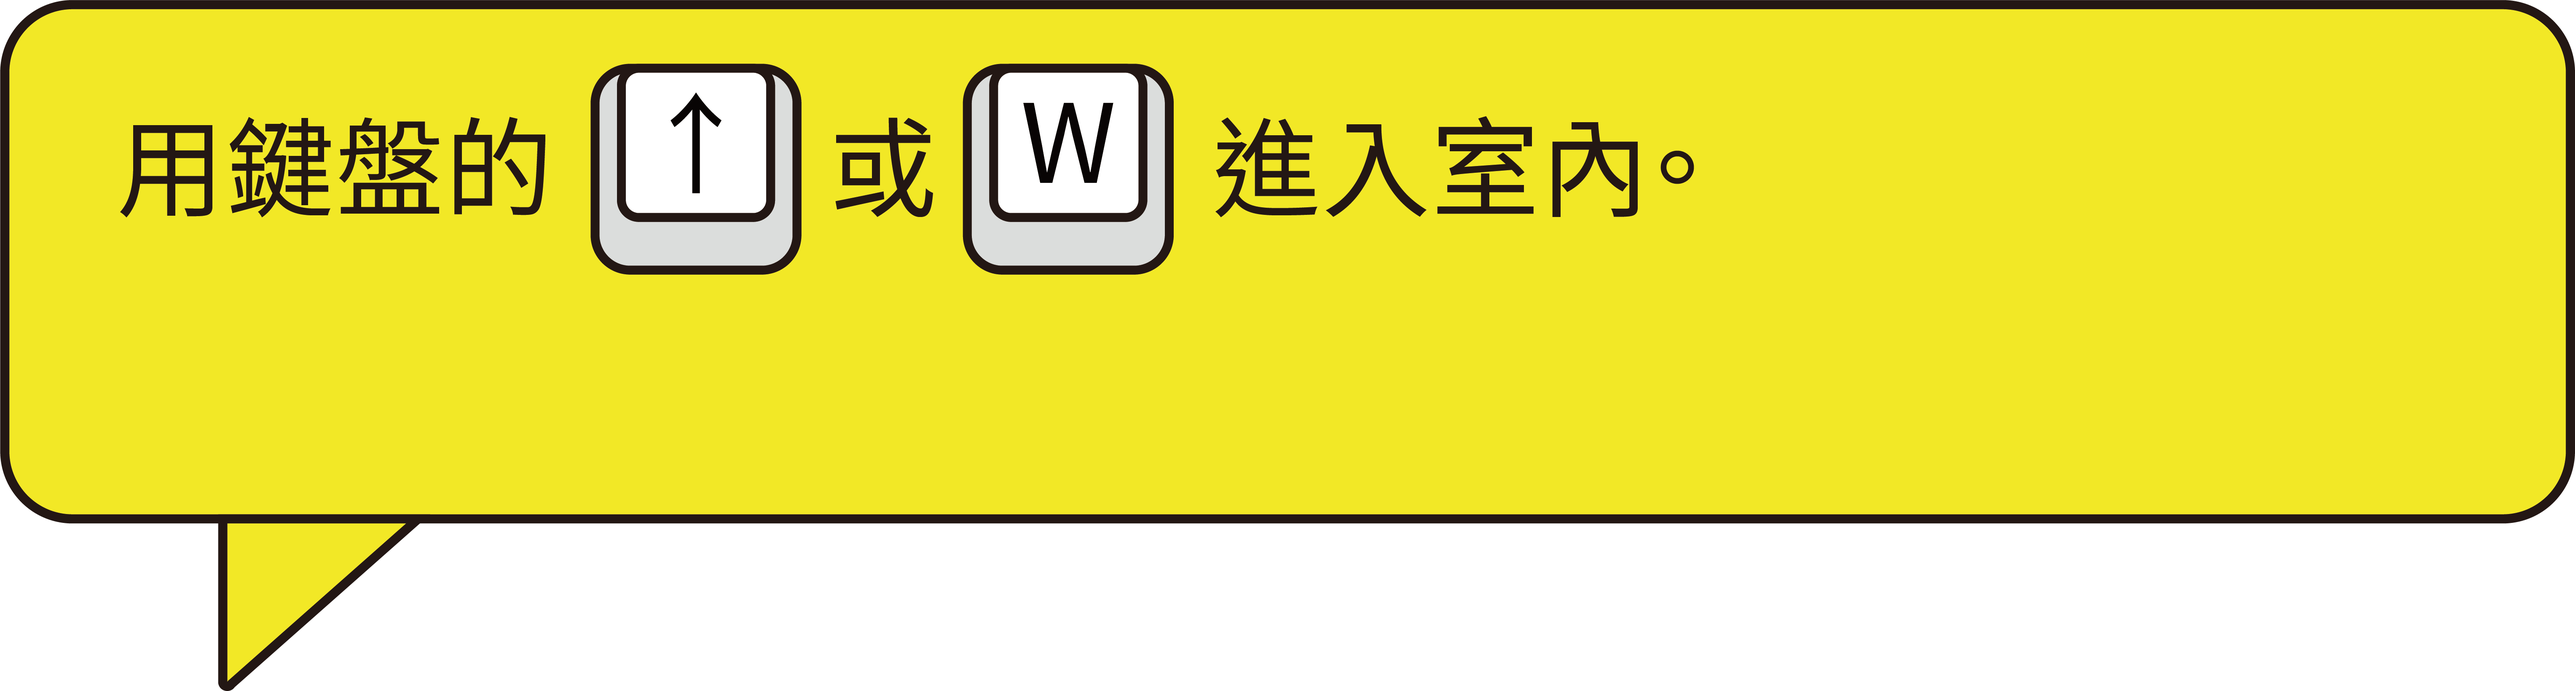
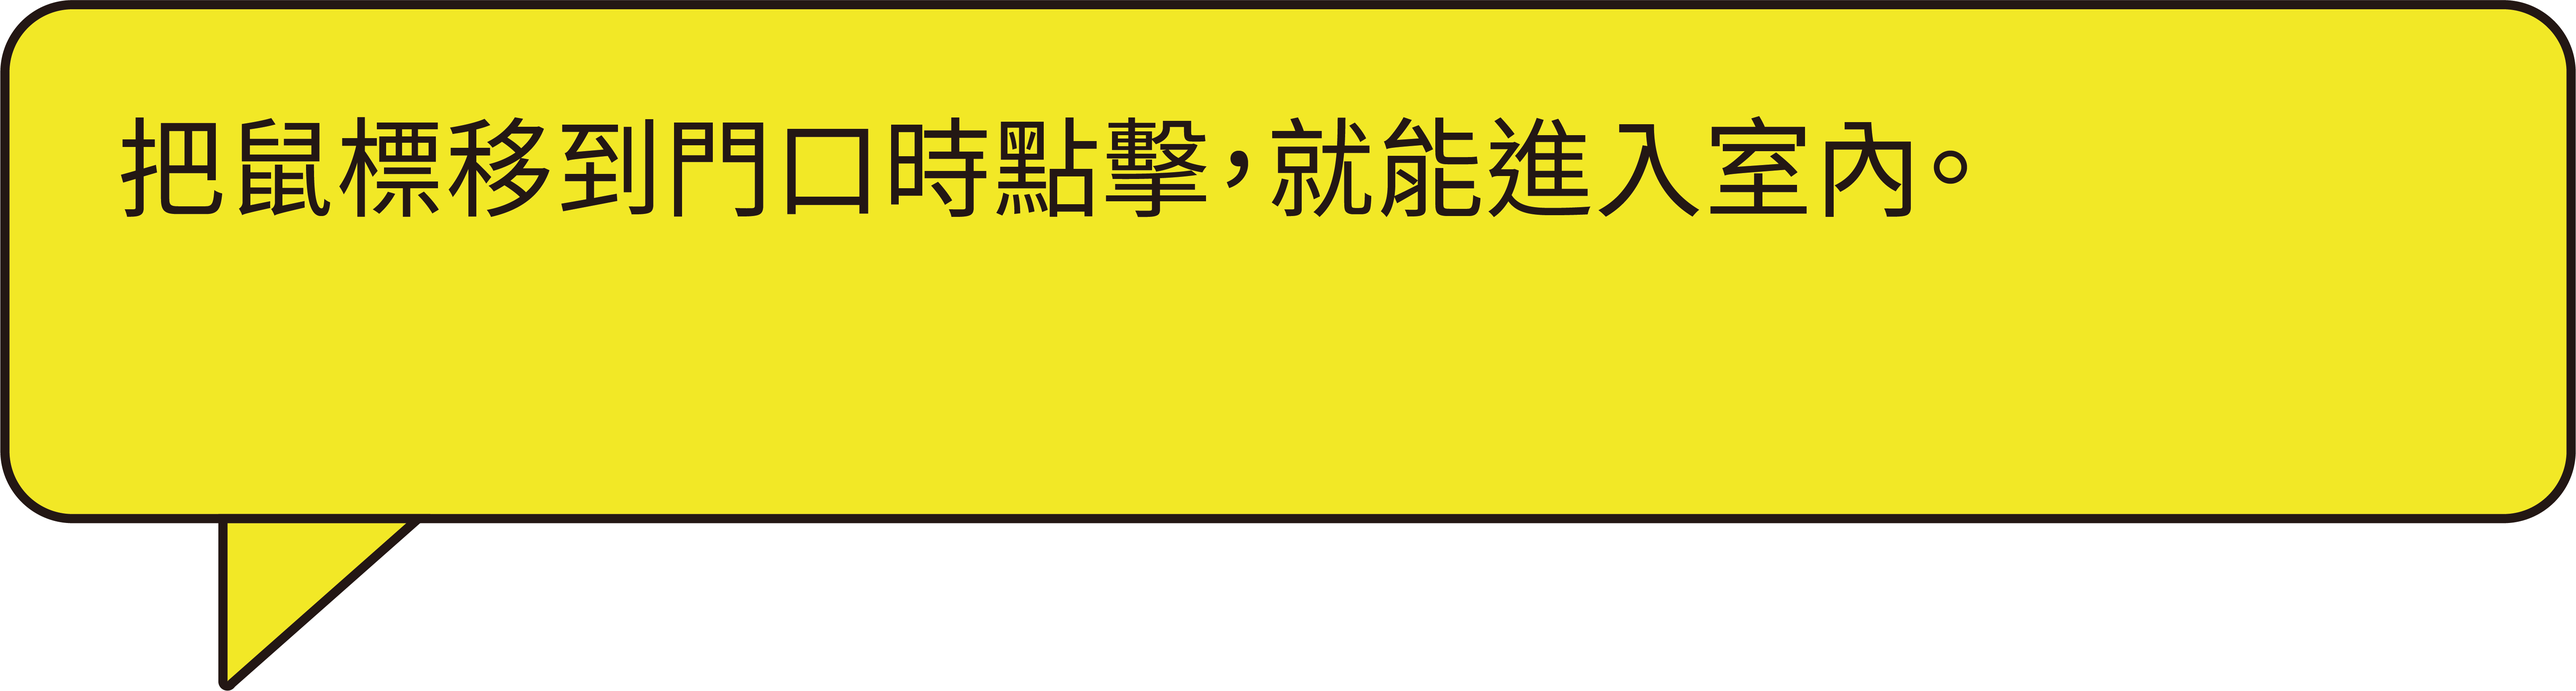
0519

Changed region(s): [[0.0311, 0.0933, 0.7774, 0.4043]]

diff --git a/index.js b/index.js
@@ -62,15 +62,24 @@ const phone = new Interaction({x:1320, y:50, w:308/4.5, h:492/4.5, name:'phone',
 const interactions = [
     new Interaction({x:2973, y:481, w:147, h:218, name:'cool', isShow:false}),
     new Interaction({x:3750, y:450, w:60, h:60, name:'occupy', image: createImage('./images/buttons/in2f.png'), multiple:1.05, isShow:false, }),
-    new Interaction({x:4170, y:500, w:455, h:225, name:'hoard', isShow:false}),
-    new Interaction({x:4170, y:200, w:455, h:225, name:'network', isShow:false}),
-    new Interaction({x:4895, y:200, w:455, h:225, name:'noisy', isShow:false}),
-    new Interaction({x:4895, y:500, w:455, h:225, name:'delay', isShow:false}),
+    new Interaction({x:4370, y:530, w:200, h:200, name:'hoard', isShow:false}),
+    new Interaction({x:4825, y:520, w:60, h:60, name:'network',image: createImage('./images/buttons/in2f.png'), multiple:1.05, isShow:false}),
+    new Interaction({x:4825, y:590, w:60, h:60, name:'noisy',image: createImage('./images/buttons/in2f.png'),  isShow:false}),
+    new Interaction({x:4955, y:530, w:175, h:195, name:'delay', isShow:false}),
     new Interaction({x:6430, y:490, w:310, h:225, name:'road', isShow:false}),
-
 ]
 const talks = [
-    new Talk({x:3780 -3318/15, y:350, w:3318/15, h:1604/15, name:'occupy', image: createImage('./images/talks/enter2f_.png'),isShow:false, direction:1650}),
+    new Talk({x:3780 -3318/15, y:350, w:3318/15, h:1640/15, name:'occupy', image: createImage('./images/talks/enter2f_.png'),isShow:false, direction:1650}),
+    new Talk({x:2973 + 60, y:400, w:3318/15, h:1640/15, name:'cool', image: createImage('./images/talks/entercool_.png'),isShow:false, direction:400000}),
+    new Talk({x:4370 - 3318/15 + 100, y:530, w:3318/15, h:1640/15, name:'hoard', image: createImage('./images/talks/enterhoard_.png'),isShow:false, direction:400000}),
+    new Talk({x:4825 - 3693/15 + 30, y:430, w:3693/15, h:1640/15, name:'network', image: createImage('./images/talks/enternetwork_.png'),isShow:false, direction:400000}),
+    new Talk({x:4825 + 30, y:490, w:3693/15, h:1640/15, name:'noisy', image: createImage('./images/talks/enternoisy_.png'),isShow:false, direction:400000}),
+    new Talk({x:4955 + 100, y:530, w:3317/15, h:1640/15, name:'delay', image: createImage('./images/talks/enterdelay_.png'),isShow:false, direction:400000}),
+    new Talk({x:6430 + 100, y:380, w:3317/15, h:1640/15, name:'road', image: createImage('./images/talks/enterroad_.png'),isShow:false, direction:400000}),
+]
+const outSideItems = [
+    new Interaction({x:6380 , y:460, w:279/3, h:871/3, name:'roadpeople',image: createImage('./images/roads/people1.png'), isEnlarge:false, isShow:true}),
+
 ]
 const dynamics = [
     
@@ -142,7 +151,7 @@ const cools = {
     
     talk004: new Shared({x:mesterTalkX - 30, y:mesterTalkY-630/4.5 , w:2378/4.8, h:639/4.8, image: createImage('./images/cool/talk/004.png'), isTalk:true, isEnlarge:false, multiple:1.02, name:'004', isShow:false,}),
 
-    end: new Shared({x:canvas.width/2 - (398/1)/2 , y:canvas.height/2 - (232/1)/2  , w:398/1, h:232/1, image: createImage('./images/goodend.png'), isEnlarge:false, multiple:1, name:'end', isShow:false,}),
+    end: new Shared({x:canvas.width/2 - (2079/5)/2 , y:canvas.height/2 - (2123/5)/2  , w:2079/5, h:2123/5, image: createImage('./images/cool/goodend.png'), isEnlarge:false, multiple:1, name:'end', isShow:false,}),
 
     talk005: new Shared({x:canvas.width/2 - (3149/4.5)/2, y:canvas.height/2 - (484/4.5) - 100, w:2378/4.8, h:639/4.8, image: createImage('./images/cool/talk/005.png'), isTalk:true, isEnlarge:false, multiple:1.02, name:'005', isShow:false,}),
     talk006: new Shared({x:canvas.width/2 - (3149/4.5)/2 , y:canvas.height/2 - (484/4.5) - 100, w:2378/4.8, h:639/4.8, image: createImage('./images/cool/talk/006.png'), isTalk:true, isEnlarge:false, multiple:1.02, name:'006', isShow:false,}),
@@ -182,7 +191,7 @@ const occupys = {
     chk: new Shared({x:canvas.width/2 - (112/2)/2 + 300, y:canvas.height/2 - (68/2)/2 + 20, w:112/2, h:68/2, image: createImage('./images/buttons/chk.png'), isEnlarge:false, multiple:1, name:'chk', isShow:false ,}),
 
 
-    end: new Shared({x:canvas.width/2 - (398/1)/2 , y:canvas.height/2 - (232/1)/2  , w:398/1, h:232/1, image: createImage('./images/goodend.png'), isEnlarge:false, multiple:1, name:'end', isShow:false,}),
+    end: new Shared({x:canvas.width/2 - (2079/5)/2 , y:canvas.height/2 - (2123/5)/2  , w:398/1, h:232/1, image: createImage('./images/occupys/goodend.png'), isEnlarge:false, multiple:1, name:'end', isShow:false,}),
 
 }
 
@@ -253,7 +262,7 @@ const hoards = {
     chk: new Shared({x:canvas.width/2 - (112/2)/2 + 300, y:canvas.height/2 - (68/2)/2 + 20, w:112/2, h:68/2, image: createImage('./images/buttons/chk.png'), isEnlarge:false, multiple:1, name:'chk', isShow:false ,}),
     chk2: new Shared({x:canvas.width/2 - (112/2)/2 + 110, y:canvas.height/2 - (68/2)/2 + 20, w:112/2, h:68/2, image: createImage('./images/buttons/chk.png'), isEnlarge:false, multiple:1, name:'chk2', isShow:false ,}),
 
-    end: new Shared({x:canvas.width/2 - (398/1)/2 , y:canvas.height/2 - (232/1)/2  , w:398/1, h:232/1, image: createImage('./images/goodend.png'), isEnlarge:false, multiple:1, name:'end', isShow:false,}),
+    end: new Shared({x:canvas.width/2 - (2079/5)/2 , y:canvas.height/2 - (2123/5)/2  , w:398/1, h:232/1, image: createImage('./images/hoards/goodend.png'), isEnlarge:false, multiple:1, name:'end', isShow:false,}),
 }
 const networks = {
     computer: new Shared({x:940, y:108, w:751/4.2, h:418/4.2, image: createImage('./images/network/computer.png'), name:'computer', isShow:true, isEnlarge:false, multiple:1}),
@@ -299,7 +308,7 @@ const networks = {
 
     chk: new Shared({x:canvas.width/2 - (112/2)/2 + 300, y:canvas.height/2 - (68/2)/2 + 20, w:112/2, h:68/2, image: createImage('./images/buttons/chk.png'), isEnlarge:false, multiple:1, name:'chk', isShow:false ,}),
 
-    end: new Shared({x:canvas.width/2 - (398/1)/2 , y:canvas.height/2 - (232/1)/2  , w:398/1, h:232/1, image: createImage('./images/goodend.png'), isEnlarge:false, multiple:1, name:'end', isShow:false,}),
+    end: new Shared({x:canvas.width/2 - (2079/5)/2 , y:canvas.height/2 - (2123/5)/2  , w:398/1, h:232/1, image: createImage('./images/network/goodend.png'), isEnlarge:false, multiple:1, name:'end', isShow:false,}),
 
 }
 const noisys = {
@@ -361,7 +370,7 @@ const noisys = {
     // new Shared({x:playerTalkX-(2378/4.5)-25, y:playerTalkXY-630/4.5, w:2378/4.5, h:630/4.5, image: createImage('./images/network/talk/2.png'), isTalk:true, isEnlarge:false, multiple:1.02, name:'2', isShow:false,}),
     A: new Shared({x:canvas.width/2 - (1485/4)/2 , y:canvas.height/2 - (484/4)/2  , w:1485/4, h:484/4, image: createImage('./images/noisy/talk/A.png'), isEnlarge:false, multiple:1, name:'A', isShow:false,}),
     B: new Shared({x:canvas.width/2 - (1485/4)/2 , y:canvas.height/2 - (484/4)/2  , w:1485/4, h:484/4, image: createImage('./images/noisy/talk/B.png'), isEnlarge:false, multiple:1, name:'B', isShow:false,}),
-    end: new Shared({x:canvas.width/2 - (398/1)/2 , y:canvas.height/2 - (232/1)/2  , w:398/1, h:232/1, image: createImage('./images/goodend.png'), isEnlarge:false, multiple:1, name:'end', isShow:false,}),
+    end: new Shared({x:canvas.width/2 - (2079/5)/2 , y:canvas.height/2 - (2123/5)/2  , w:398/1, h:232/1, image: createImage('./images/noisy/goodend.png'), isEnlarge:false, multiple:1, name:'end', isShow:false,}),
 }
 const delays = {
     count: new Shared({x:150, y:670, w:300/3.5, h:137/3.5, image: createImage('./images/delays/talk/0-4.png'), name:'count', multiple:1, isEnlarge:false, isShow:false}),
@@ -412,7 +421,7 @@ const delays = {
 
     chk: new Shared({x:canvas.width/2 - (112/2)/2 + 300, y:canvas.height/2 - (68/2)/2 + 20, w:112/2, h:68/2, image: createImage('./images/buttons/chk.png'), isEnlarge:false, multiple:1, name:'chk', isShow:false ,}),
 
-    end: new Shared({x:canvas.width/2 - (398/1)/2 , y:canvas.height/2 - (232/1)/2  , w:398/1, h:232/1, image: createImage('./images/goodend.png'), isEnlarge:false, multiple:1, name:'end', isShow:false,}),
+    end: new Shared({x:canvas.width/2 - (2079/5)/2 , y:canvas.height/2 - (2123/5)/2  , w:398/1, h:232/1, image: createImage('./images/delays/goodend.png'), isEnlarge:false, multiple:1, name:'end', isShow:false,}),
 }
 const roads = {
     a1: new Shared({x:716, y:190, w:28, h:74, image: createImage('./images/roads/a1.png'),name:'a1', isEnlarge:true, multiple:1.05, isShow:true}),
@@ -436,11 +445,49 @@ const roads = {
     b1talkChk: new Shared({x:675 + 110  - 80 -112/1.6- 100 , y:340 -518/4.5 + 22 , w:112/1.6, h:68/1.6, image: createImage('./images/buttons/chk.png'), name:'b1talkChk', multiple:1.02, isEnlarge:true, isShow:false}),
     b1talkCancel: new Shared({x:675 + 110  - 80 - 100 + 10, y:340 -518/4.5 + 22, w:112/1.6, h:68/1.6, image: createImage('./images/buttons/cancel.png'), name:'b1talkCancel', multiple:1.02, isEnlarge:true, isShow:false}),
 
+    b2talk: new Shared({x:675  + 80, y:340 -518/4.5, w:1683/4.5, h:518/4.5, image: createImage('./images/roads/talk/b2talk.png'),name:'b2talk', isEnlarge:false, multiple:1.05, isShow:false}),
+    b2talkChk: new Shared({x:675  + 80  +(1683/4.5) -112/1.6- 100 , y:340 -518/4.5 + 22 , w:112/1.6, h:68/1.6, image: createImage('./images/buttons/chk.png'), name:'b2talkChk', multiple:1.02, isEnlarge:true, isShow:false}),
+    b2talkCancel: new Shared({x:675  + 80  +(1683/4.5)- 100 + 10, y:340 -518/4.5 + 22, w:112/1.6, h:68/1.6, image: createImage('./images/buttons/cancel.png'), name:'b2talkCancel', multiple:1.02, isEnlarge:true, isShow:false}),
+
+    c1talk: new Shared({x:675 + 110 - (1683/4.5) - 80, y:660 -518/4.5, w:1683/4.5, h:518/4.5, image: createImage('./images/roads/talk/c1talk.png'),name:'c1talk', isEnlarge:false, multiple:1.05, isShow:false}),
+    c1talkChk: new Shared({x:675 + 110  - 80 -112/1.6- 100 , y:660 -518/4.5 + 22 , w:112/1.6, h:68/1.6, image: createImage('./images/buttons/chk.png'), name:'c1talkChk', multiple:1.02, isEnlarge:true, isShow:false}),
+    c1talkCancel: new Shared({x:675 + 110  - 80 - 100 + 10, y:660 -518/4.5 + 22, w:112/1.6, h:68/1.6, image: createImage('./images/buttons/cancel.png'), name:'c1talkCancel', multiple:1.02, isEnlarge:true, isShow:false}),
+
+    d1talk: new Shared({x:890 + 28 - (1978/4.5) + 30, y:308 +20, w:1978/4.5, h:518/4.5, image: createImage('./images/roads/talk/d1talk.png'),name:'d1talk', isEnlarge:false, multiple:1.05, isShow:false}),
+    d1talkChk: new Shared({x:890 + 28 - 112/1.6 - 100 + 30  , y:308+20  + 518/4.5 - 68/1.6 -15 , w:112/1.6, h:68/1.6, image: createImage('./images/buttons/chk.png'), name:'d1talkChk', multiple:1.02, isEnlarge:true, isShow:false}),
+    d1talkCancel: new Shared({x:890 + 28 - 100 +10 +30, y:308 +20 + 518/4.5 - 68/1.6 -15, w:112/1.6, h:68/1.6, image: createImage('./images/buttons/cancel.png'), name:'d1talkCancel', multiple:1.02, isEnlarge:true, isShow:false}),
     
+    e1talk: new Shared({x:615  , y:421 -518/4.5, w:2068/4.5, h:518/4.5, image: createImage('./images/roads/talk/e1talk.png'),name:'e1talk', isEnlarge:false, multiple:1.05, isShow:false}),
+    e1talkChk: new Shared({x:615  +(2068/4.5) -112/1.6- 100 , y:421 -518/4.5 + 22 , w:112/1.6, h:68/1.6, image: createImage('./images/buttons/chk.png'), name:'e1talkChk', multiple:1.02, isEnlarge:true, isShow:false}),
+    e1talkCancel: new Shared({x:615 +(2068/4.5)- 100 + 10, y:421 -518/4.5 + 22, w:112/1.6, h:68/1.6, image: createImage('./images/buttons/cancel.png'), name:'e1talkCancel', multiple:1.02, isEnlarge:true, isShow:false}),
+
+    f1talk: new Shared({x:728  , y:655 -518/4.5, w:2068/4.5, h:518/4.5, image: createImage('./images/roads/talk/f1talk.png'),name:'f1talk', isEnlarge:false, multiple:1.05, isShow:false}),
+    f1talkChk: new Shared({x:728  +(2068/4.5) -112/1.6- 100 , y:655 -518/4.5 + 22 , w:112/1.6, h:68/1.6, image: createImage('./images/buttons/chk.png'), name:'f1talkChk', multiple:1.02, isEnlarge:true, isShow:false}),
+    f1talkCancel: new Shared({x:728 +(2068/4.5)- 100 + 10, y:655 -518/4.5 + 22, w:112/1.6, h:68/1.6, image: createImage('./images/buttons/cancel.png'), name:'f1talkCancel', multiple:1.02, isEnlarge:true, isShow:false}),
     
-    b2talk: new Shared({x:675  + 80, y:340 -518/4.5, w:1683/4.5, h:518/4.5, image: createImage('./images/roads/talk/b2talk.png'),name:'b2talk', isEnlarge:false, multiple:1.05, isShow:true}),
-    b2talkChk: new Shared({x:675  + 80  +(1683/4.5) -112/1.6- 100 , y:340 -518/4.5 + 22 , w:112/1.6, h:68/1.6, image: createImage('./images/buttons/chk.png'), name:'b2talkChk', multiple:1.02, isEnlarge:true, isShow:true}),
-    b2talkCancel: new Shared({x:675  + 80  +(1683/4.5)- 100 + 10, y:340 -518/4.5 + 22, w:112/1.6, h:68/1.6, image: createImage('./images/buttons/cancel.png'), name:'b2talkCancel', multiple:1.02, isEnlarge:true, isShow:true}),
+    g1talk: new Shared({x:1010 + 28 - (1978/4.5) + 30, y:288 +50, w:1978/4.5, h:518/4.5, image: createImage('./images/roads/talk/g1talk.png'),name:'g1talk', isEnlarge:false, multiple:1.05, isShow:false}),
+    g1talkChk: new Shared({x:1010 + 28 - 112/1.6 - 100 + 30  , y:288+50  + 518/4.5 - 68/1.6 -15 , w:112/1.6, h:68/1.6, image: createImage('./images/buttons/chk.png'), name:'g1talkChk', multiple:1.02, isEnlarge:true, isShow:false}),
+    g1talkCancel: new Shared({x:1010 + 28 - 100 +10 +30, y:288 +50 + 518/4.5 - 68/1.6 -15, w:112/1.6, h:68/1.6, image: createImage('./images/buttons/cancel.png'), name:'g1talkCancel', multiple:1.02, isEnlarge:true, isShow:false}),
+
+    h1talk: new Shared({x:1216 + 28 - (1449/4.5) + 30, y:392 +50, w:1449/4.5, h:518/4.5, image: createImage('./images/roads/talk/h1talk.png'),name:'h1talk', isEnlarge:false, multiple:1.05, isShow:false}),
+    h1talkChk: new Shared({x:1216 + 28 - 112/1.6 - 100 + 30  , y:392+50  + 518/4.5 - 68/1.6 -15 , w:112/1.6, h:68/1.6, image: createImage('./images/buttons/chk.png'), name:'h1talkChk', multiple:1.02, isEnlarge:true, isShow:false}),
+    h1talkCancel: new Shared({x:1216 + 28 - 100 +10 +30, y:392 +50 + 518/4.5 - 68/1.6 -15, w:112/1.6, h:68/1.6, image: createImage('./images/buttons/cancel.png'), name:'h1talkCancel', multiple:1.02, isEnlarge:true, isShow:false}),
+
+    i1talk: new Shared({x:736  , y:567 -518/4.5, w:2068/4.5, h:518/4.5, image: createImage('./images/roads/talk/i1talk.png'),name:'i1talk', isEnlarge:false, multiple:1.05, isShow:false}),
+    i1talkChk: new Shared({x:736  +(2068/4.5) -112/1.6- 100 , y:567 -518/4.5 + 22 , w:112/1.6, h:68/1.6, image: createImage('./images/buttons/chk.png'), name:'i1talkChk', multiple:1.02, isEnlarge:true, isShow:false}),
+    i1talkCancel: new Shared({x:736 +(2068/4.5)- 100 + 10, y:567 -518/4.5 + 22, w:112/1.6, h:68/1.6, image: createImage('./images/buttons/cancel.png'), name:'i1talkCancel', multiple:1.02, isEnlarge:true, isShow:false}),
+    
+    j1talk: new Shared({x:865 + 28 - (2044/4.5) +30, y:427 +20, w:2044/4.5, h:518/4.5, image: createImage('./images/roads/talk/j1talk.png'),name:'j1talk', isEnlarge:false, multiple:1.05, isShow:false}),
+    j1talkChk: new Shared({x:865 + 28 - 112/1.6 - 100 +30  , y:427+20  + 518/4.5 - 68/1.6 -15 , w:112/1.6, h:68/1.6, image: createImage('./images/buttons/chk.png'), name:'j1talkChk', multiple:1.02, isEnlarge:true, isShow:false}),
+    j1talkCancel: new Shared({x:865 + 28 - 100 +10+30, y:427 +20 + 518/4.5 - 68/1.6 -15, w:112/1.6, h:68/1.6, image: createImage('./images/buttons/cancel.png'), name:'j1talkCancel', multiple:1.02, isEnlarge:true, isShow:false}),
+
+    k1talk: new Shared({x:1240 + 28 - (1978/4.5) + 10, y:480 +50, w:1978/4.5, h:518/4.5, image: createImage('./images/roads/talk/k1talk.png'),name:'k1talk', isEnlarge:false, multiple:1.05, isShow:false}),
+    k1talkChk: new Shared({x:1240 + 28 - 112/1.6 - 100 + 10  , y:480+50  + 518/4.5 - 68/1.6 -15 , w:112/1.6, h:68/1.6, image: createImage('./images/buttons/chk.png'), name:'k1talkChk', multiple:1.02, isEnlarge:true, isShow:false}),
+    k1talkCancel: new Shared({x:1240 + 28 - 100 +10 + 10, y:480 +50 + 518/4.5 - 68/1.6 -15, w:112/1.6, h:68/1.6, image: createImage('./images/buttons/cancel.png'), name:'k1talkCancel', multiple:1.02, isEnlarge:true, isShow:false}),
+
+    l1talk: new Shared({x:832 + 110 - (1683/4.5) - 80 + 30, y:580 -518/4.5 + 30, w:1683/4.5, h:518/4.5, image: createImage('./images/roads/talk/l1talk.png'),name:'l1talk', isEnlarge:false, multiple:1.05, isShow:false}),
+    l1talkChk: new Shared({x:832 + 110  - 80 -112/1.6- 100 + 30 , y:580 -518/4.5 + 22 + 30 , w:112/1.6, h:68/1.6, image: createImage('./images/buttons/chk.png'), name:'l1talkChk', multiple:1.02, isEnlarge:true, isShow:false}),
+    l1talkCancel: new Shared({x:832 + 110  - 80 - 100 + 10 + 30, y:580 -518/4.5 + 22 + 30, w:112/1.6, h:68/1.6, image: createImage('./images/buttons/cancel.png'), name:'l1talkCancel', multiple:1.02, isEnlarge:true, isShow:false}),
 
     people: new Shared({x:0, y:250, w:279/1.1, h:871/1.1, image: createImage('./images/roads/people1.png'), isPeople:true, name:'people', isShow:true}),
 
@@ -519,6 +566,9 @@ function startFn(){
         interactions.forEach(item=>{
             item.position.x -= busSpeed
         })
+        outSideItems.forEach(item=>{
+            item.position.x -= busSpeed
+        })
         talks.forEach(talk=>{
             talk.position.x -= busSpeed
         })
@@ -547,7 +597,7 @@ function startFn(){
                 bus.divisor = 15
             }
         }
-    }, 20)
+    }, 0)
 }
 
 let busPos = 1.5
@@ -572,6 +622,9 @@ function animate(){
             interactions.forEach(item=>{
                 item.position.x -= player.speed *0.66
             })
+            outSideItems.forEach(item=>{
+                item.position.x -= player.speed *0.66
+            })
             talks.forEach(talk=>{
                 talk.position.x -= player.speed *0.66
             })
@@ -588,6 +641,9 @@ function animate(){
                 backgruond.position.x += player.speed *0.66
                 bus.position.x += player.speed *0.66
                 interactions.forEach(item=>{
+                    item.position.x += player.speed *0.66
+                })
+                outSideItems.forEach(item=>{
                     item.position.x += player.speed *0.66
                 })
                 talks.forEach(talk=>{
@@ -607,6 +663,10 @@ function animate(){
     interactions.forEach(interaction=>{
         if(interaction.show===false) return
         interaction.draw()
+    })
+    outSideItems.forEach(item=>{
+        if(item.show===false) return
+        item.draw()
     })
     talks.forEach(talk=>{
         if(talk.show) talk.draw()

diff --git a/js/loadimg.js b/js/loadimg.js
@@ -68,6 +68,8 @@ const imgarr = [
     , './images/cool/talk/11B.png'
     , './images/cool/talk/1001.png'
     , './images/cool/talk/res.png'
+    , './images/cool/goodend.png'
+    , './images/cool/badend.png'
     , './images/delays/a1.png'
     , './images/delays/a2.png'
     , './images/delays/b1.png'
@@ -122,6 +124,8 @@ const imgarr = [
     , './images/delays/talk/16B_.png'
     , './images/delays/talk/17A.png'
     , './images/delays/talk/17B.png'
+    , './images/delays/goodend.png'
+    , './images/delays/badend.png'
     , './images/hoards/a1.png'
     , './images/hoards/b1.png'
     , './images/hoards/c1.png'
@@ -175,6 +179,8 @@ const imgarr = [
     , './images/hoards/talk/16C_.png'
     , './images/hoards/talk/finish.png'
     , './images/hoards/talk/res.png'
+    , './images/hoards/goodend.png'
+    , './images/hoards/badend.png'
     , './images/network/computer.png'
     , './images/network/goback.png'
     , './images/network/goback_.png'
@@ -232,6 +238,8 @@ const imgarr = [
     , './images/network/talk/14.png'
     , './images/network/talk/15.png'
     , './images/network/talk/res.png'
+    , './images/network/goodend.png'
+    , './images/network/badend.png'
     , './images/noisy/people1.png'
     , './images/noisy/smallPeople.png'
     , './images/noisy/wall1.png'
@@ -262,6 +270,8 @@ const imgarr = [
     , './images/noisy/talk/B.png'
     , './images/noisy/talk/wall1.png'
     , './images/noisy/talk/wall2.png'
+    , './images/noisy/goodend.png'
+    , './images/noisy/badend.png'
     , './images/occupys/a1.png'
     , './images/occupys/b1.png'
     , './images/occupys/c1.png'
@@ -311,6 +321,8 @@ const imgarr = [
     , './images/occupys/talk/10C.png'
     , './images/occupys/talk/10C_.png'
     , './images/occupys/talk/res.png'
+    , './images/occupys/goodend.png'
+    , './images/occupys/badend.png'
     , './images/starts/talk/001.png'
     , './images/starts/talk/01.png'
     , './images/starts/talk/1.png'
@@ -339,6 +351,18 @@ const imgarr = [
     , './images/starts/talk/010.png'
     , './images/talks/enter2f.png'
     , './images/talks/enter2f_.png'
+    , './images/talks/entercool_.png'
+    , './images/talks/entercool.png'
+    , './images/talks/enterdelay.png'
+    , './images/talks/enterdelay_.png'
+    , './images/talks/enterhoard.png'
+    , './images/talks/enterhoard_.png'
+    , './images/talks/enternetwork.png'
+    , './images/talks/enternetwork_.png'
+    , './images/talks/enternoisy.png'
+    , './images/talks/enternoisy_.png'
+    , './images/talks/enterroad.png'
+    , './images/talks/enterroad_.png'
 ]
 let imgDownloadNum = 0
 let isLoaded = false

diff --git a/js/eventListener.js b/js/eventListener.js
@@ -16,6 +16,7 @@ window.addEventListener("keydown", ({keyCode})=>{
             break;
         case 68:
             if(!isRoomOpen){
+                console.log(scrollOffset);
                 keys.right.pressed = true
                 lastKey = 'right'
                 audioRunning.loop = true
@@ -24,6 +25,7 @@ window.addEventListener("keydown", ({keyCode})=>{
             break;
         case 65:
             if(!isRoomOpen){
+                console.log(scrollOffset);
                 keys.left.pressed = true
                 lastKey = 'left'
                 audioRunning.loop = true
@@ -100,7 +102,7 @@ canvas.addEventListener('mousemove', (e)=>{
         if(!isRoomOpen && x > interaction.position.x && x < (interaction.position.x + interaction.width) && y > interaction.position.y && y < (interaction.position.y + interaction.height)){
             let talk = talks.filter(talk=> talk.name === interaction.name)[0]
             if(interaction.show===false) return
-            if(interaction.enlarge===false) return
+            if(interaction.enlarg===false) return 
             if(talk) {
                 if(talk.direction!==0){
                     if(scrollOffset <= talk.direction){

diff --git a/js/Sprite.js b/js/Sprite.js
@@ -41,7 +41,7 @@ class Interaction {
     }
     draw(){
         if(this.image === null){
-            c.fillStyle = 'rgba(255,255,255,0)'
+            c.fillStyle = 'rgba(255,255,0,.5)'
             c.fillRect(this.position.x, this.position.y, this.width, this.height)
         }else{
             if(!this.loaded) return
